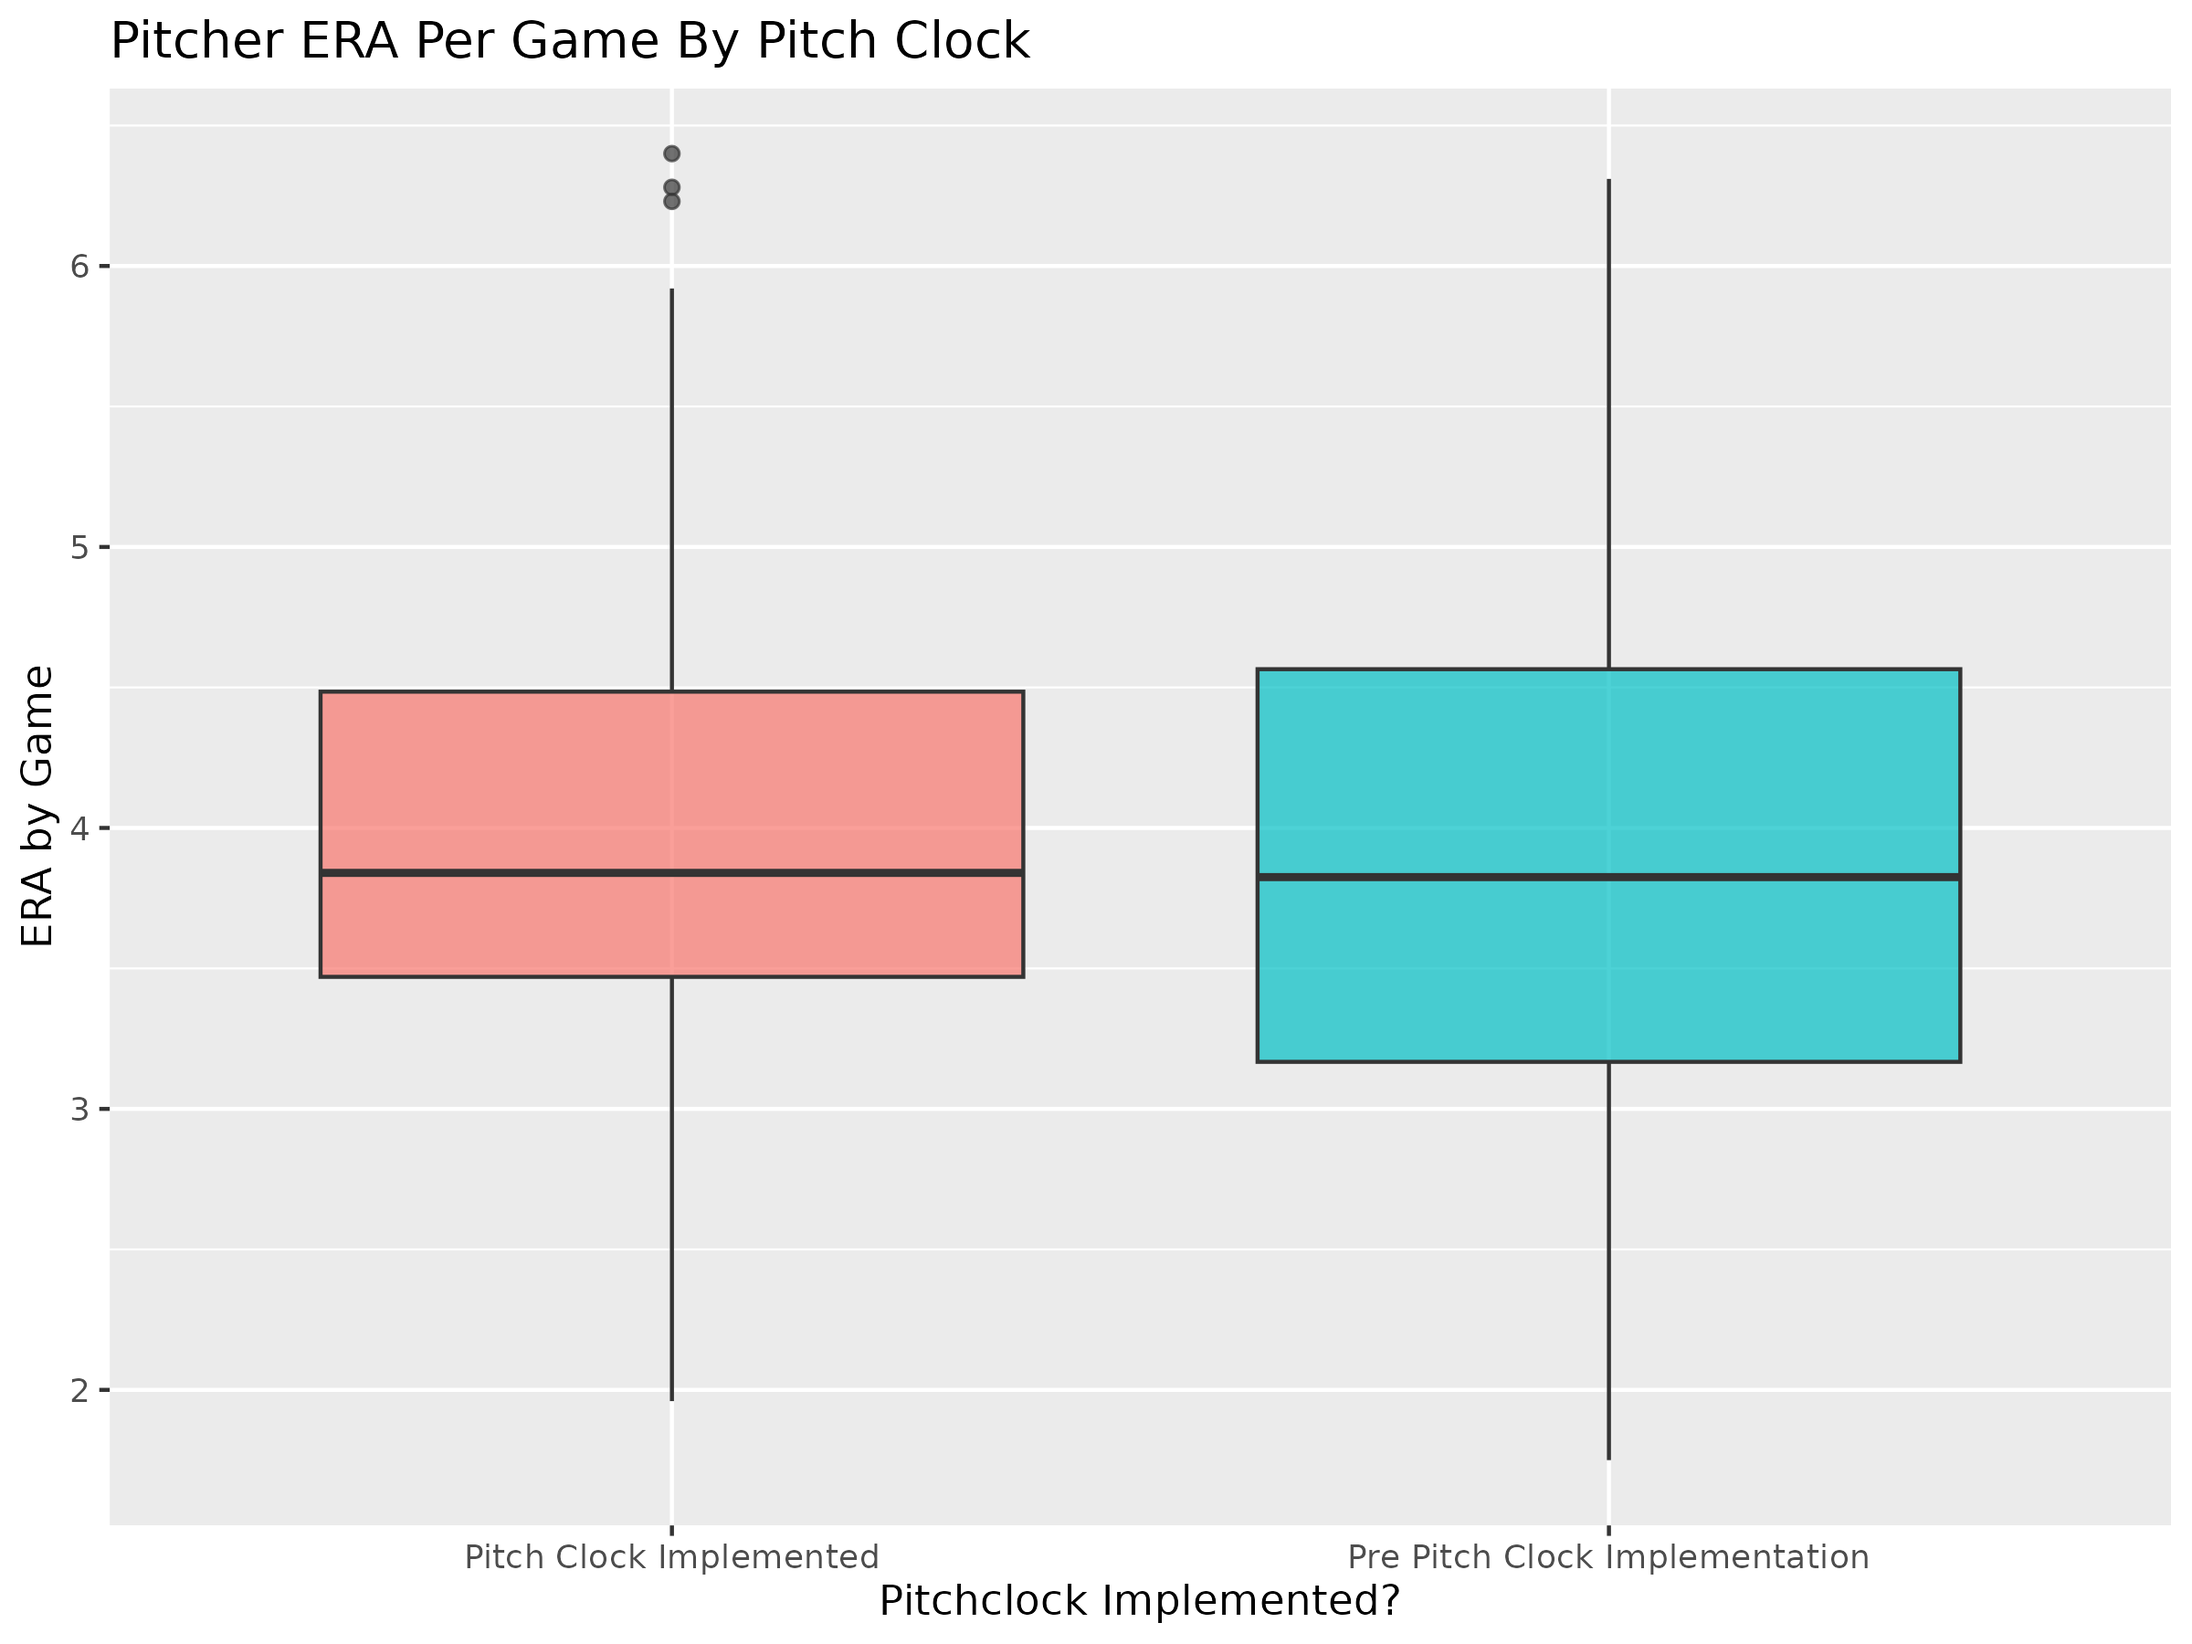
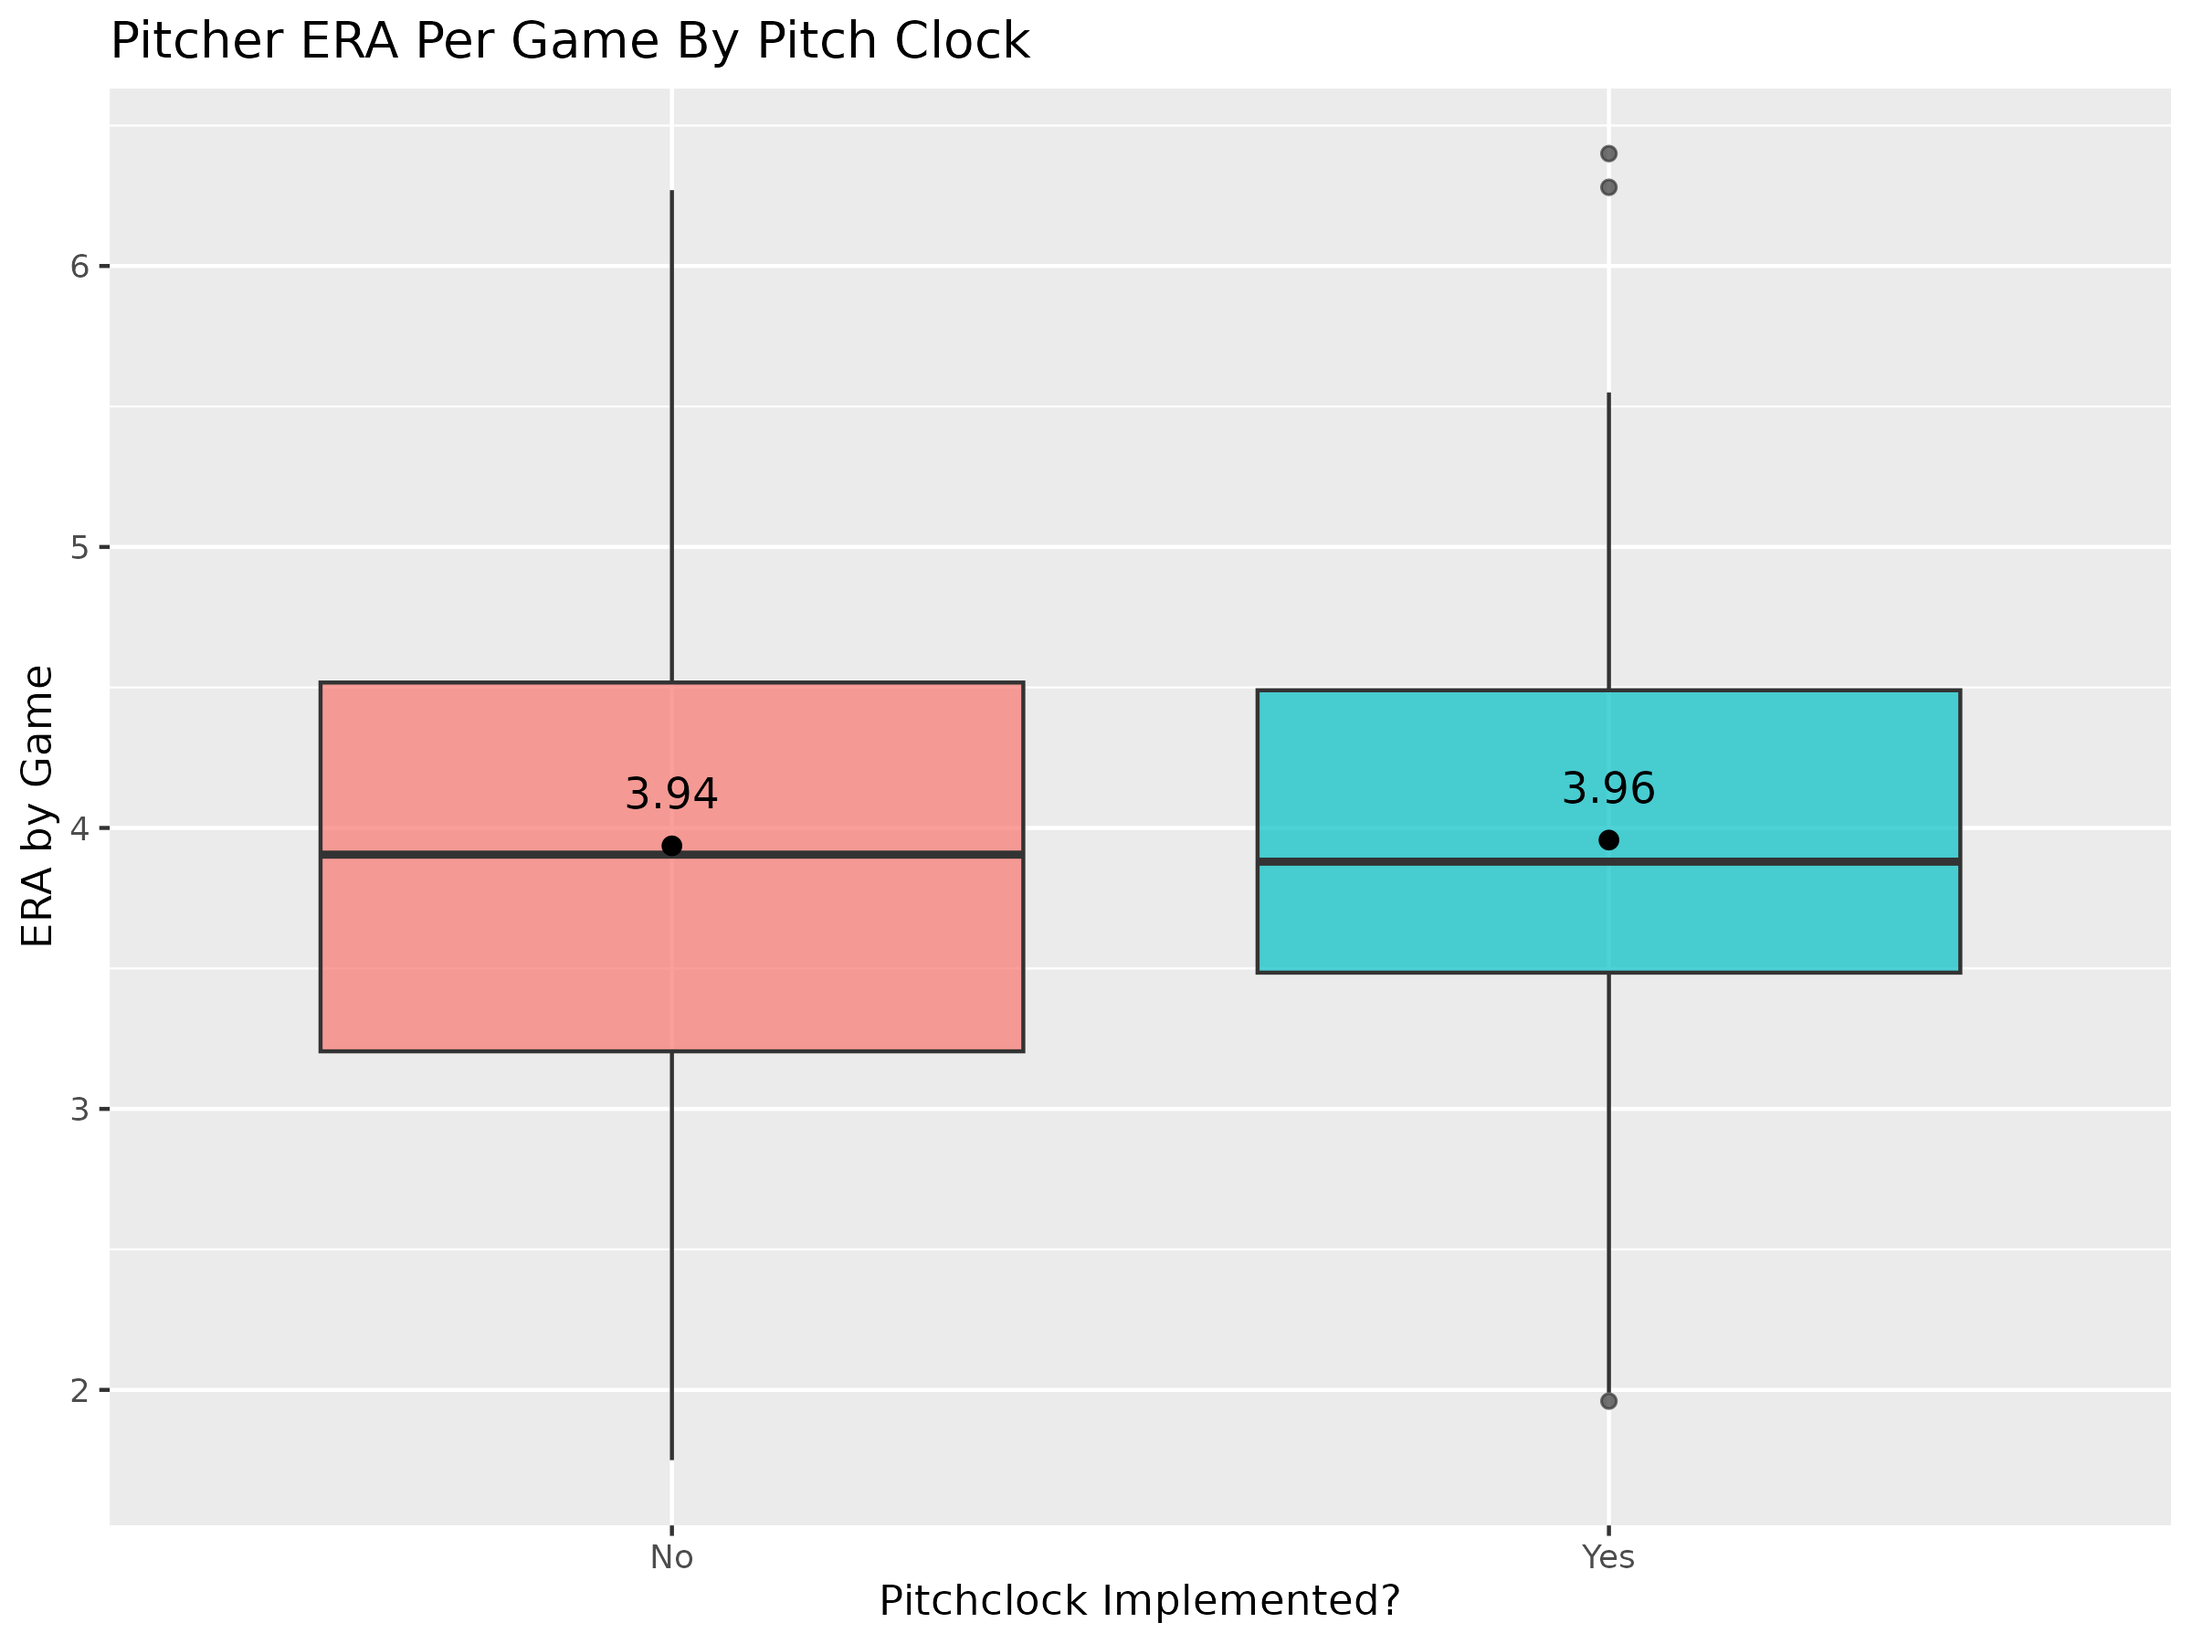
Added labels to plots 1&3

diff --git a/memo/memo.md b/memo/memo.md
@@ -21,7 +21,7 @@ library(broom)
 ``` r
 baseball <- read.csv("../data/pitching_data_2021-2024.csv")
 baseball <- baseball %>%
-  mutate(pitch_clock = ifelse(year >= 2023, "Pitch Clock Implemented", "Pre Pitch Clock Implementation"))
+  mutate(pitch_clock = ifelse(year >= 2023, "Yes", "No"))
 
 # Step 1: Keep pitchers with all 4 years of data
 baseball_1plot <- baseball %>%
@@ -52,6 +52,14 @@ baseball_1plot <- baseball_1plot %>%
     total_pitches = sum(adjusted_total_pitches, na.rm = TRUE),
     .groups = "drop"
   )
+
+baseball_3plot <- baseball %>%
+  group_by(player_id, pitch_clock) %>%
+  summarise(
+    p_era = mean(p_era, na.rm = TRUE),
+    total_pitches = sum(adjusted_total_pitches, na.rm = TRUE),
+    .groups = "drop"
+  )
 ```
 
 ### Step 2: \_\_\_\_\_\_\_\_
@@ -70,6 +78,15 @@ data cleaning steps specific to a particular plot
 ``` r
 plot1_boxplot <- ggplot(baseball_1plot, aes(x = pitch_clock, y = avg_strike_percent, fill = pitch_clock)) +
   geom_boxplot(alpha = 0.7) +
+  stat_summary(fun = mean, geom = "point", shape = 20, size = 3, color = "black") +  # black dot for mean
+  stat_summary(
+    fun = mean,
+    geom = "text",
+    aes(label = round(..y.., 2)),
+    vjust = -1.2,
+    color = "black",
+    size = 4
+  ) +  # mean label
   labs(
     title = "Strike % by Pitch Clock Era (Adjusted for Automatic Balls)",
     x = "Pitch Clock Implemented?",
@@ -80,7 +97,13 @@ plot1_boxplot <- ggplot(baseball_1plot, aes(x = pitch_clock, y = avg_strike_perc
 ggsave("strike_percent_by_pitch_clock.png", plot = plot1_boxplot, width = 8, height = 6)
 ```
 
-### Plot 2: \_\_\_\_\_\_\_\_\_
+    ## Warning: The dot-dot notation (`..y..`) was deprecated in ggplot2 3.4.0.
+    ## ℹ Please use `after_stat(y)` instead.
+    ## This warning is displayed once every 8 hours.
+    ## Call `lifecycle::last_lifecycle_warnings()` to see where this warning was
+    ## generated.
+
+### Plot 2: Innings pitched Density Plot
 
 ``` r
 baseball$ip_game <- baseball$p_formatted_ip/baseball$p_game
@@ -101,14 +124,23 @@ ggsave("Innings_Pitcher_per_game.png", plot = densityplot, width = 8, height = 6
 
 ``` r
 ERAbox_plot <-
-  ggplot(baseball, aes(x = pitch_clock, y = p_era, fill = pitch_clock)) +
+  ggplot(baseball_3plot, aes(x = pitch_clock, y = p_era, fill = pitch_clock)) +
   geom_boxplot(alpha = 0.7) +
+  stat_summary(fun = mean, geom = "point", shape = 20, size = 3, color = "black") +  # black dot for mean
+  stat_summary(
+    fun = mean, 
+    geom = "text", 
+    aes(label = round(..y.., 2)), 
+    vjust = -1.2, 
+    color = "black", 
+    size = 4
+  ) +  # text label of mean
   labs(
-   title = "Pitcher ERA Per Game By Pitch Clock", 
-   x = "Pitchclock Implemented?",
-   y = "ERA by Game"
+    title = "Pitcher ERA Per Game By Pitch Clock", 
+    x = "Pitchclock Implemented?",
+    y = "ERA by Game"
   ) +
-  theme(legend.position= "none")
+  theme(legend.position = "none")
 ggsave("ERA_by_Pitchclock.png", plot = ERAbox_plot, width = 8, height = 6)
 ```
 
